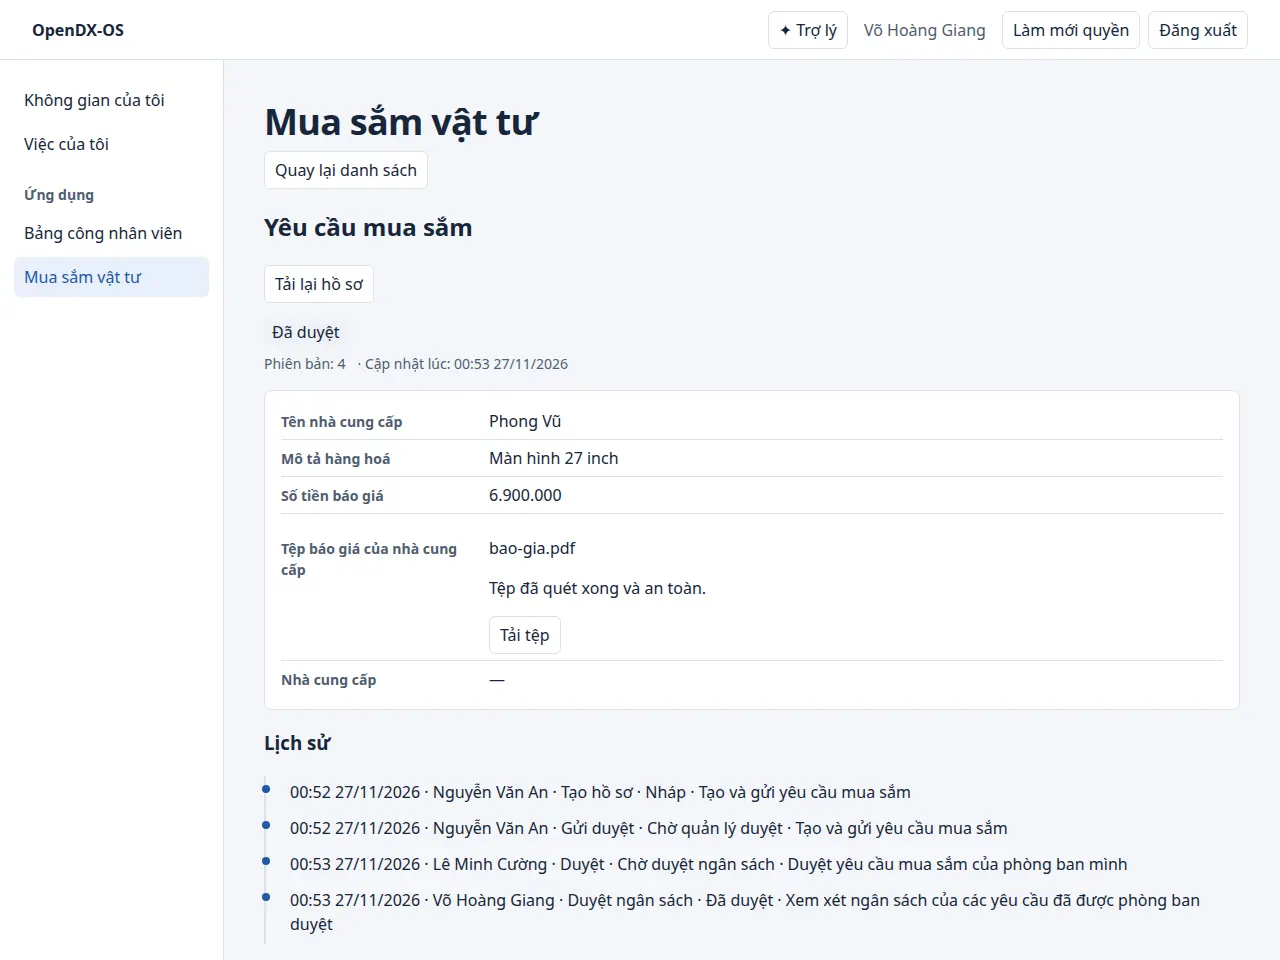
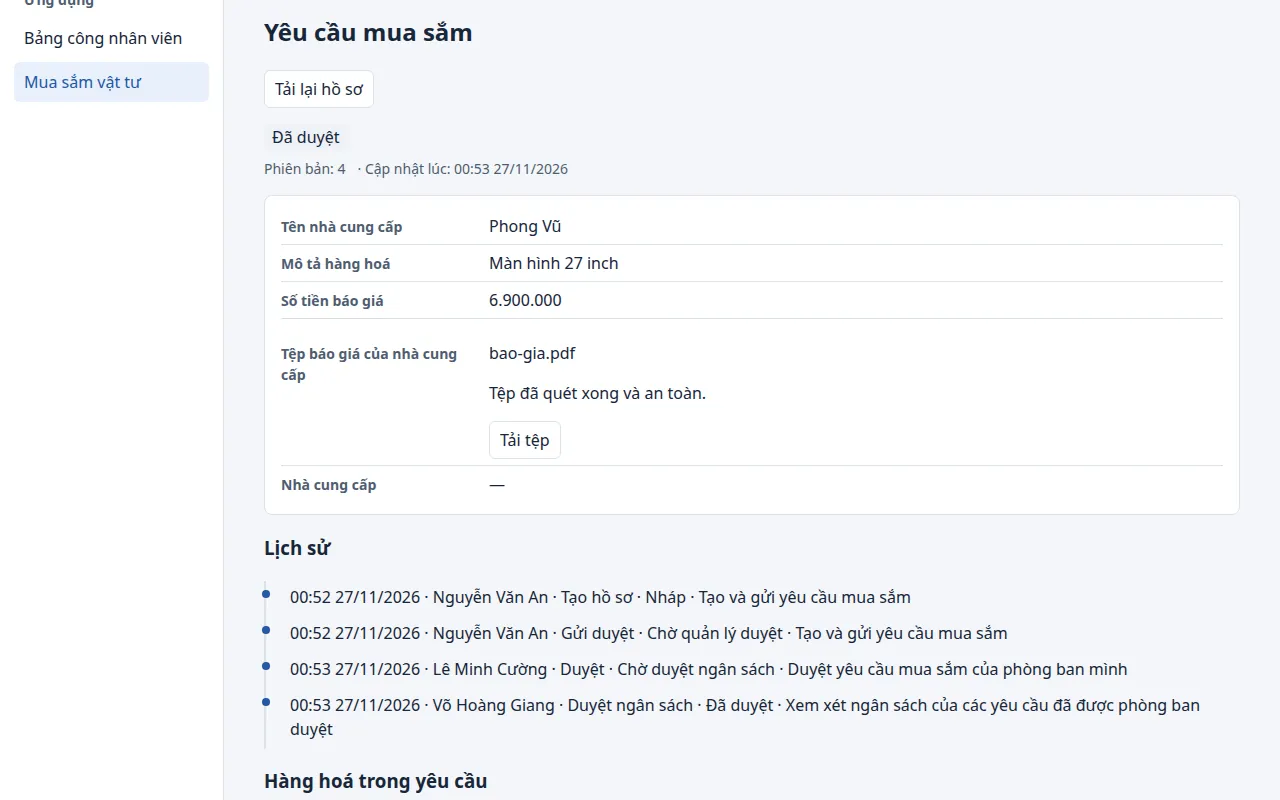
docs: refine the landing page copy, layout and community links
- Headline "Ứng dụng nội bộ, không cần viết backend" with a plainer lead,
  replacing the rotating app name.
- No version on the page (pill, footer); the notice bar now describes
  the project instead of work in progress, so nothing needs editing per
  release.
- A first "OpenDX-OS là gì?" section: the problem, the approach, the
  result and how apps are added.
- Section labels without numbers.
- The three "add an app" tab panels share one grid cell, so the box
  keeps the tallest panel's height and the page no longer jumps.
- Both real screenshots are 1280x800 now (the record view is cropped to
  the record and its history), so their frames line up.
- The live-updates card shows two rows (manager, requester) with the
  same status changing, instead of two cramped columns.
- A community section and footer column with Discord, GitHub issues and
  the contributing guide. The Discord invite is a placeholder
  (DISCORD_INVITE) until the server's invite code is known.

diff --git a/docs/index.html b/docs/index.html
@@ -121,12 +121,10 @@ nav a.gh svg { width: 16px; height: 16px; }
   content: ""; position: absolute; inset: 0; z-index: -2; pointer-events: none;
   background: radial-gradient(700px 360px at 30% 8%, var(--glow), transparent 70%), radial-gradient(600px 340px at 75% 20%, var(--glow-2), transparent 70%);
 }
-.pill { display: inline-flex; align-items: center; gap: 10px; font-family: var(--mono); font-size: 13px; color: var(--muted); padding: 5px 14px 5px 6px; border: 1px solid var(--line-strong); border-radius: 999px; background: var(--surface); }
-.pill b { font-weight: 500; color: var(--on-accent); background: var(--accent); border-radius: 999px; padding: 1px 9px; }
+.pill { display: inline-flex; align-items: center; gap: 10px; font-family: var(--mono); font-size: 13px; color: var(--muted); padding: 6px 14px; border: 1px solid var(--line-strong); border-radius: 999px; background: var(--surface); }
+.pill i { width: 8px; height: 8px; border-radius: 50%; background: var(--t2); box-shadow: 0 0 0 4px color-mix(in srgb, var(--t2) 20%, transparent); }
 h1 { font-size: clamp(38px, 6.6vw, 76px); line-height: 1.06; margin: 24px auto 22px; letter-spacing: -.035em; font-weight: 800; max-width: 920px; }
-.rot { display: inline-grid; vertical-align: bottom; text-align: left; }
-.rot span { grid-area: 1 / 1; background: linear-gradient(90deg, var(--accent), var(--t2)); -webkit-background-clip: text; background-clip: text; color: transparent; padding-bottom: .08em; transition: opacity .45s ease, transform .45s ease; }
-.rot span:not(.on) { opacity: 0; transform: translateY(.35em); }
+h1 em { font-style: normal; background: linear-gradient(90deg, var(--accent), var(--t2)); -webkit-background-clip: text; background-clip: text; color: transparent; padding-bottom: .06em; }
 .lead { font-size: clamp(17px, 2.1vw, 20px); color: var(--muted); margin: 0 auto 34px; max-width: 680px; }
 .cta { display: flex; flex-wrap: wrap; justify-content: center; gap: 12px; }
 .btn { display: inline-flex; align-items: center; gap: 8px; padding: 12px 20px; border-radius: 11px; text-decoration: none; font-weight: 600; border: 1px solid var(--line-strong); color: var(--text); background: var(--surface); }
@@ -201,7 +199,9 @@ h3 { margin: 0 0 6px; font-size: 18px; letter-spacing: -.015em; font-weight: 650
 .tabs.manual .tab[aria-selected="true"]::after { animation: none; opacity: .4; }
 @keyframes fill { from { transform: scaleX(0); } to { transform: scaleX(1); } }
 .panels .panel + .panel { margin-top: 20px; }
-.js .panels .panel + .panel { margin-top: 0; }
+.js .panels { display: grid; grid-template-columns: minmax(0, 1fr); }
+.js .panels > .panel { grid-area: 1 / 1; margin-top: 0; }
+.js .panels > .panel.off { visibility: hidden; }
 pre { margin: 0; padding: 20px 22px; overflow-x: auto; font-size: 13.5px; line-height: 1.6; background: var(--code-bg); color: var(--code-text); }
 .window.dark { border-color: #1f2737; background: var(--code-bg); }
 .window.dark .bar { background: #121827; border-color: #1f2737; }
@@ -306,10 +306,11 @@ ol.steps span { color: var(--muted); font-size: 15.5px; }
 .chart .lineA { stroke: var(--accent); fill: none; stroke-width: 2.5; stroke-linejoin: round; }
 .chart .area { fill: var(--accent-soft); }
 .chart text { fill: var(--muted); font-family: var(--mono); font-size: 11px; }
-.twins { display: grid; grid-template-columns: 1fr 1fr; gap: 10px; }
-.twin { border: 1px solid var(--line); border-radius: 10px; background: var(--bg); padding: 10px; font-size: 12.5px; color: var(--muted); }
-.twin b { display: block; color: var(--text); font-size: 13px; margin-bottom: 8px; font-weight: 600; }
-.swap { display: inline-grid; }
+.live { display: grid; gap: 6px; }
+.live-row { display: flex; justify-content: space-between; align-items: center; gap: 10px; padding: 10px 12px; border: 1px solid var(--line); border-radius: 10px; background: var(--bg); font-size: 13.5px; font-weight: 600; }
+.live-row small { display: block; font-family: var(--mono); font-size: 11px; font-weight: 400; color: var(--muted); }
+.live-sync { text-align: center; font-family: var(--mono); font-size: 11.5px; color: var(--muted); }
+.swap { display: inline-grid; justify-items: end; white-space: nowrap; }
 .swap span { grid-area: 1 / 1; font-size: 12px; font-weight: 600; padding: 2px 9px; border-radius: 999px; }
 .swap span:first-child { background: var(--warn-soft); color: var(--warn); animation: swapA 6s infinite; }
 .swap span:last-child { background: var(--ok-soft); color: var(--ok); opacity: 0; animation: swapB 6s infinite; }
@@ -336,8 +337,12 @@ ol.steps span { color: var(--muted); font-size: 15.5px; }
 .links a span { color: var(--muted); font-weight: 400; }
 .links a:hover span { color: var(--accent); }
 
+section.intro { border-top: 1px solid var(--line); }
+.community { display: grid; grid-template-columns: minmax(0, 1.3fr) minmax(0, 1fr); gap: 32px; align-items: center; padding: 44px; border-radius: 22px; border: 1px solid var(--line-strong); background: radial-gradient(500px 260px at 0% 0%, var(--glow), transparent 70%), radial-gradient(500px 260px at 100% 100%, var(--glow-2), transparent 70%), var(--surface); }
+.community .sub { margin-bottom: 0; }
+.community .cta { justify-content: flex-start; }
 footer { border-top: 1px solid var(--line); padding: 56px 0 48px; color: var(--muted); font-size: 14.5px; }
-.foot { display: grid; grid-template-columns: minmax(0, 1.6fr) repeat(2, minmax(0, 1fr)); gap: 32px; }
+.foot { display: grid; grid-template-columns: minmax(0, 1.6fr) repeat(3, minmax(0, 1fr)); gap: 32px; }
 .foot p { margin: 12px 0 0; max-width: 360px; }
 .foot h2 { margin: 0 0 12px; font-family: var(--mono); font-size: 12px; font-weight: 500; letter-spacing: .12em; text-transform: uppercase; color: var(--muted); }
 .foot ul { list-style: none; margin: 0; padding: 0; display: grid; gap: 8px; }
@@ -352,7 +357,7 @@ footer { border-top: 1px solid var(--line); padding: 56px 0 48px; color: var(--m
 }
 @media (prefers-reduced-motion: reduce) {
   html { scroll-behavior: auto; }
-  .rot span, .node { transition: none; }
+  .node { transition: none; }
   .swap span { animation: none; }
   .swap span:last-child { display: none; }
   .tab[aria-selected="true"]::after { animation: none; }
@@ -371,6 +376,7 @@ footer { border-top: 1px solid var(--line); padding: 56px 0 48px; color: var(--m
   .rules div:nth-child(even), .principles div:nth-child(even) { padding-left: 18px; }
   .foot { grid-template-columns: minmax(0, 1fr) minmax(0, 1fr); }
   .foot > div:first-child { grid-column: 1 / -1; }
+  .community { grid-template-columns: minmax(0, 1fr); padding: 28px 22px; }
 }
 @media (max-width: 720px) {
   nav a.hide-sm { display: none; }
@@ -399,13 +405,12 @@ footer { border-top: 1px solid var(--line); padding: 56px 0 48px; color: var(--m
   .rules div + div, .principles div + div { border-top: 1px solid var(--line); }
   .notice .tag, .hide-xs { display: none; }
   .media .soon { position: static; transform: none; margin: 10px; white-space: normal; }
-  .twins { grid-template-columns: minmax(0, 1fr); }
 }
 </style>
 </head>
 <body>
 <a class="skip" href="#noi-dung">Bỏ qua tới nội dung</a>
-<div class="notice"><span class="tag">Đang phát triển</span>Triển khai Kubernetes, KEDA và cập nhật trực tiếp đã có trên nhánh chính. <a href="https://github.com/nguyentin05/opendx-os/blob/main/CHANGELOG.md">Xem nhật ký thay đổi →</a></div>
+<div class="notice"><span class="tag">Mã nguồn mở</span>Một nền tảng cho mọi ứng dụng nội bộ, chạy trên Docker Compose hoặc bất kỳ cụm Kubernetes nào. <a href="https://github.com/nguyentin05/opendx-os/releases">Xem bản phát hành →</a></div>
 <header class="top">
   <div class="wrap">
     <a class="brand" href="./"><img src="assets/landing/logo.webp" alt="" width="32" height="26">OpenDX-OS</a>
@@ -425,9 +430,9 @@ footer { border-top: 1px solid var(--line); padding: 56px 0 48px; color: var(--m
 <main id="noi-dung">
   <div class="hero">
     <div class="wrap">
-      <span class="pill"><b>v0.3.0</b>Mã nguồn mở · Apache-2.0<span class="hide-xs"> · Tự vận hành</span></span>
-      <h1><span class="sr">Ứng dụng nghiệp vụ chỉ là khai báo</span><span aria-hidden="true">Ứng dụng <span class="rot" id="rot"><span class="on">nghiệp vụ</span><span>mua sắm</span><span>bảo trì</span><span>chấm công</span></span><br>chỉ là khai báo</span></h1>
-      <p class="lead">Nền tảng mã nguồn mở ba tầng cho chuyển đổi số nội bộ. Viết một manifest, nền tảng dựng bảng, phân quyền, API, giao diện và quy trình, ngay khi hệ thống đang chạy.</p>
+      <span class="pill"><i aria-hidden="true"></i>Mã nguồn mở · Apache-2.0<span class="hide-xs"> · Tự vận hành</span></span>
+      <h1>Ứng dụng nội bộ,<br><em>không cần viết backend</em></h1>
+      <p class="lead">Mỗi ứng dụng chỉ là một gói khai báo: dữ liệu, vai trò và quy trình duyệt. OpenDX-OS biến gói đó thành ứng dụng hoàn chỉnh, có phân quyền, giao diện và lịch sử, và cài được ngay khi hệ thống đang chạy.</p>
       <div class="cta">
         <a class="btn primary" href="get-started/">Bắt đầu
           <svg viewBox="0 0 24 24" fill="none" stroke="currentColor" stroke-width="2.4" stroke-linecap="round" stroke-linejoin="round" aria-hidden="true"><path d="M5 12h14M13 6l6 6-6 6"/></svg></a>
@@ -463,9 +468,23 @@ footer { border-top: 1px solid var(--line); padding: 56px 0 48px; color: var(--m
     </div>
   </div>
 
+  <section class="intro" aria-labelledby="gioi-thieu">
+    <div class="wrap">
+      <p class="eyebrow">Giới thiệu</p>
+      <h2 id="gioi-thieu">OpenDX-OS là gì?</h2>
+      <p class="sub">OpenDX-OS là nền tảng mã nguồn mở giúp một tổ chức đưa các quy trình nội bộ như mua sắm, bảo trì thiết bị hay chấm công lên cùng một hệ thống. Thay vì mua hoặc viết một phần mềm riêng cho từng việc, tổ chức mô tả mỗi quy trình bằng một gói khai báo, và nền tảng lo phần còn lại.</p>
+      <div class="principles">
+        <div class="reveal"><span class="n">Vấn đề</span><h3>Mỗi quy trình một phần mềm</h3><p>Tài khoản, phân quyền và dữ liệu nằm rải rác, khó biết ai được làm gì và đã làm gì.</p></div>
+        <div class="reveal"><span class="n">Cách làm</span><h3>Một nền tảng dùng chung</h3><p>Đăng nhập, phân quyền, lưu trữ, quy trình và giao diện do nền tảng lo; ứng dụng chỉ khai báo phần nghiệp vụ.</p></div>
+        <div class="reveal"><span class="n">Kết quả</span><h3>Một cổng cho mọi ứng dụng</h3><p>Một lần đăng nhập, một nơi cấp quyền, lịch sử đầy đủ cho mỗi hồ sơ.</p></div>
+        <div class="reveal"><span class="n">Mở rộng</span><h3>Thêm ứng dụng khi đang chạy</h3><p>Cài hoặc gỡ một ứng dụng trong vài giây, không build và không deploy lại.</p></div>
+      </div>
+    </div>
+  </section>
+
   <section class="alt" aria-labelledby="ba-tang">
     <div class="wrap">
-      <p class="eyebrow">01 · Kiến trúc</p>
+      <p class="eyebrow">Kiến trúc</p>
       <h2 id="ba-tang">Ba tầng, ranh giới rõ ràng</h2>
       <p class="sub">Ứng dụng không bao giờ kèm code backend. Ứng dụng dùng năng lực của tầng 2, tầng 2 chạy trên một nền tảng headless chỉ cung cấp API.</p>
       <div class="layer reveal" style="--c:var(--t3);--cs:var(--t3-soft)">
@@ -508,7 +527,7 @@ footer { border-top: 1px solid var(--line); padding: 56px 0 48px; color: var(--m
 
   <section aria-labelledby="khai-bao">
     <div class="wrap">
-      <p class="eyebrow">02 · Thêm ứng dụng</p>
+      <p class="eyebrow">Thêm ứng dụng</p>
       <h2 id="khai-bao">Từ manifest tới màn hình, không deploy lại</h2>
       <p class="sub">Một ứng dụng mới được cài khi hệ thống đang chạy. Trên Kubernetes, gói ứng dụng là một tài nguyên <code>DXApplication</code>.</p>
       <div class="tabs reveal" id="tabs">
@@ -576,7 +595,7 @@ procurement   0.3.0     <span class="ok">True</span>    14s</code></pre>
 
   <section class="alt" id="demo" aria-labelledby="demo-title">
     <div class="wrap">
-      <p class="eyebrow">03 · Thử ngay</p>
+      <p class="eyebrow">Thử ngay</p>
       <h2 id="demo-title">Đưa một yêu cầu qua chuỗi phê duyệt</h2>
       <p class="sub">Bản mô phỏng ứng dụng Mua sắm vật tư chạy ngay trên trang này, với đúng máy trạng thái, nhãn và vai trò trong manifest. Đổi vai trò để thấy mỗi người chỉ có các thao tác của mình.</p>
       <div class="sim reveal">
@@ -628,7 +647,7 @@ procurement   0.3.0     <span class="ok">True</span>    14s</code></pre>
       <div class="shots">
         <figure class="reveal">
           <div class="window"><div class="bar" aria-hidden="true"><i></i><i></i><i></i><span>Hồ sơ yêu cầu</span></div>
-            <img src="assets/landing/detail.webp" width="1280" height="960" loading="lazy"
+            <img src="assets/landing/detail.webp" width="1280" height="800" loading="lazy"
                  alt="Trang chi tiết một yêu cầu đã duyệt: tệp báo giá đã quét an toàn và lịch sử bốn bước từ người đề nghị, trưởng phòng tới tài chính"></div>
           <figcaption><b>Ảnh thật: hồ sơ và lịch sử</b>Tệp đính kèm chỉ tải được sau khi ClamAV quét sạch. Mỗi bước ghi rõ ai làm, lúc nào, với vai trò gì.</figcaption>
         </figure>
@@ -651,7 +670,7 @@ procurement   0.3.0     <span class="ok">True</span>    14s</code></pre>
   <section aria-labelledby="quan-tri">
     <div class="wrap split">
       <div>
-        <p class="eyebrow">04 · Quản trị</p>
+        <p class="eyebrow">Quản trị</p>
         <h2 id="quan-tri">Keycloak xác thực, nền tảng phân quyền</h2>
         <p class="sub">Tài khoản nằm ở Keycloak hoặc danh bạ mà Keycloak liên kết. Vai trò và phòng ban nằm ở nền tảng, được kiểm lại ở mỗi request.</p>
         <ol class="steps">
@@ -670,7 +689,7 @@ procurement   0.3.0     <span class="ok">True</span>    14s</code></pre>
 
   <section class="alt" aria-labelledby="van-hanh">
     <div class="wrap">
-      <p class="eyebrow">05 · Vận hành</p>
+      <p class="eyebrow">Vận hành</p>
       <h2 id="van-hanh">Từ máy cá nhân tới cụm Kubernetes</h2>
       <p class="sub">Cùng một bộ cấu hình chạy bằng Docker Compose trên máy hoặc trên bất kỳ cụm Kubernetes nào; một workflow kiểm tra hai cách triển khai không lệch nhau.</p>
       <div class="bento">
@@ -696,9 +715,10 @@ procurement   0.3.0     <span class="ok">True</span>    14s</code></pre>
         <div class="cell reveal">
           <div class="txt"><h3>Cập nhật trực tiếp</h3><p>Subscription GraphQL qua WebSocket; quyền của kết nối được kiểm lại mỗi phút.</p></div>
           <div class="vis">
-            <div class="twins" aria-hidden="true">
-              <div class="twin"><b>Người đề nghị</b><span class="swap"><span>Chờ quản lý duyệt</span><span>Chờ duyệt ngân sách</span></span></div>
-              <div class="twin"><b>Trưởng phòng</b><span class="swap"><span>Chờ quản lý duyệt</span><span>Chờ duyệt ngân sách</span></span></div>
+            <div class="live" aria-hidden="true">
+              <div class="live-row"><span><small>Trưởng phòng</small>Màn hình 27 inch</span><span class="swap"><span>Chờ quản lý duyệt</span><span>Chờ duyệt ngân sách</span></span></div>
+              <div class="live-sync">↕ tự cập nhật sau ~3 giây</div>
+              <div class="live-row"><span><small>Người đề nghị</small>Màn hình 27 inch</span><span class="swap"><span>Chờ quản lý duyệt</span><span>Chờ duyệt ngân sách</span></span></div>
             </div>
           </div>
         </div>
@@ -723,7 +743,7 @@ procurement   0.3.0     <span class="ok">True</span>    14s</code></pre>
 
   <section aria-labelledby="nguyen-tac">
     <div class="wrap">
-      <p class="eyebrow">06 · Nguyên tắc</p>
+      <p class="eyebrow">Nguyên tắc</p>
       <h2 id="nguyen-tac">Nguyên tắc thiết kế</h2>
       <p class="sub">Những quyết định giữ cho nền tảng nhỏ, dễ hiểu và tự vận hành được.</p>
       <div class="principles">
@@ -759,6 +779,23 @@ procurement   0.3.0     <span class="ok">True</span>    14s</code></pre>
       </div>
     </div>
   </section>
+  <section aria-labelledby="cong-dong">
+    <div class="wrap">
+      <div class="community reveal">
+        <div>
+          <p class="eyebrow">Cộng đồng</p>
+          <h2 id="cong-dong">Cùng xây OpenDX-OS</h2>
+          <p class="sub">Hỏi đáp, góp ý tính năng và chia sẻ cách tổ chức của bạn dùng OpenDX-OS. Mọi đóng góp, từ báo lỗi tới một ứng dụng mẫu mới, đều được chào đón.</p>
+        </div>
+        <div class="cta">
+          <!-- Discord invite: replace DISCORD_INVITE with the server's invite code. -->
+          <a class="btn primary" href="https://discord.gg/DISCORD_INVITE"><svg viewBox="0 0 24 24" fill="none" stroke="currentColor" stroke-width="2" stroke-linecap="round" stroke-linejoin="round" aria-hidden="true"><path d="M21 12a8 8 0 0 1-11.6 7.1L4 20l1-4.6A8 8 0 1 1 21 12z"/><path d="M8.5 12h.01M12 12h.01M15.5 12h.01"/></svg>Tham gia Discord</a>
+          <a class="btn" href="https://github.com/nguyentin05/opendx-os/issues">Báo lỗi trên GitHub</a>
+          <a class="btn" href="https://github.com/nguyentin05/opendx-os/blob/main/CONTRIBUTING.md">Hướng dẫn đóng góp</a>
+        </div>
+      </div>
+    </div>
+  </section>
 </main>
 
 <footer>
@@ -776,8 +813,12 @@ procurement   0.3.0     <span class="ok">True</span>    14s</code></pre>
         <h2>Dự án</h2>
         <ul><li><a href="https://github.com/nguyentin05/opendx-os">GitHub</a></li><li><a href="https://github.com/nguyentin05/opendx-os/releases">Bản phát hành</a></li><li><a href="https://github.com/nguyentin05/opendx-os/blob/main/CHANGELOG.md">Nhật ký thay đổi</a></li></ul>
       </div>
+      <div>
+        <h2>Cộng đồng</h2>
+        <ul><li><a href="https://discord.gg/DISCORD_INVITE">Discord</a></li><li><a href="https://github.com/nguyentin05/opendx-os/issues">Báo lỗi</a></li><li><a href="https://github.com/nguyentin05/opendx-os/blob/main/CONTRIBUTING.md">Đóng góp</a></li></ul>
+      </div>
     </div>
-    <div class="legal"><span>Apache-2.0 · v0.3.0</span><span>© 2026 DX-OS Open-Core Contributors</span></div>
+    <div class="legal"><span>Apache-2.0</span><span>© 2026 DX-OS Open-Core Contributors</span></div>
   </div>
 </footer>
 
@@ -801,14 +842,6 @@ procurement   0.3.0     <span class="ok">True</span>    14s</code></pre>
     } catch (e) {}
   });
 
-  // Rotating word in the headline (the full sentence is in a screen-reader span).
-  if (!still) {
-    var words = $('rot').children, w = 0;
-    setInterval(function () {
-      words[w].classList.remove('on'); w = (w + 1) % words.length; words[w].classList.add('on');
-    }, 2600);
-  }
-
   // Copy buttons.
   document.querySelectorAll('[data-copy]').forEach(function (b) {
     b.addEventListener('click', function () {
@@ -821,12 +854,14 @@ procurement   0.3.0     <span class="ok">True</span>    14s</code></pre>
   });
 
   // Tabs: keyboard support; they advance on their own until the reader picks one.
+  // Panels share one grid cell, so the box keeps the tallest panel's height.
   var box = $('tabs'), tabs = [].slice.call(box.querySelectorAll('[role=tab]')), timer;
   function show(i, focus) {
     tabs.forEach(function (t, k) {
       var on = k === i;
       t.setAttribute('aria-selected', on); t.tabIndex = on ? 0 : -1;
-      $(t.getAttribute('aria-controls')).hidden = !on;
+      var panel = $(t.getAttribute('aria-controls'));
+      panel.classList.toggle('off', !on); panel.inert = !on;
     });
     if (focus) tabs[i].focus();
   }
